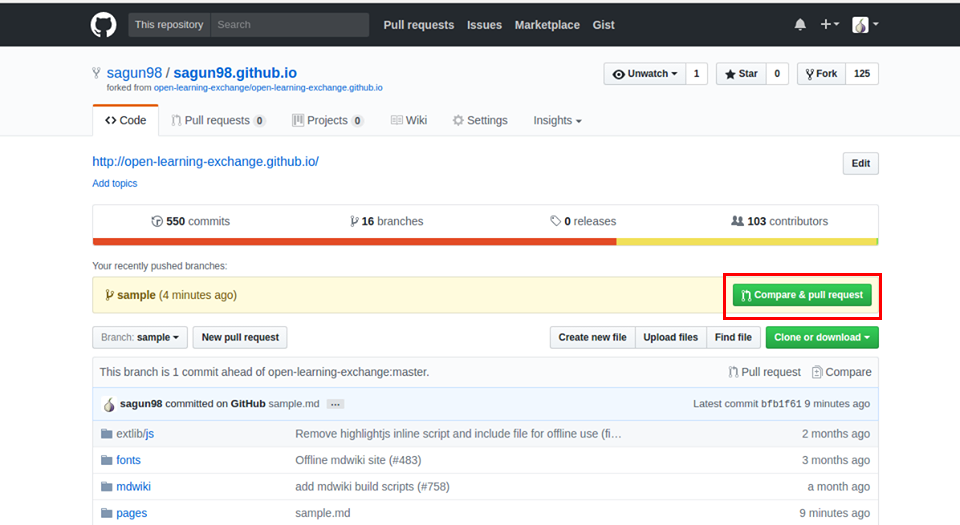
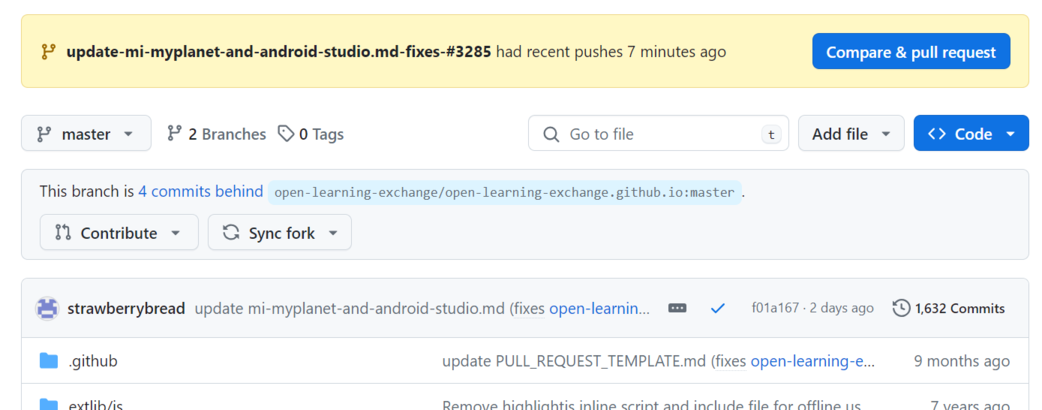
update mi-github-issues.md (fixes #3291) (#3293)

diff --git a/pages/mi/mi-github-issues.md b/pages/mi/mi-github-issues.md
@@ -166,7 +166,10 @@ Raw.githack makes it easy to see what the page will look like if your branch is 
 
 Now, go to your forked repository on GitHub by visiting `https://github.com/YourUsername/YourUsername.github.io`. GitHub will detect that you recently pushed a new branch.
 
-1. Click on the green button labeled "Compare & pull request." ![Compare & Pull](image/mi-compare-pull.png)
+1. Click on the blue button labeled "Compare & pull request."
+
+   ![Compare & Pull](image/mi-compare-pull.png)
+
 2. On the new page, provide a title and description for your pull request, for example `update mi-step4.md`.
    - Add ` (fixes #IssueNumber)` to the end of your title when applicable.
    - Follow the pull request template and fill out the necessary details in the description.
